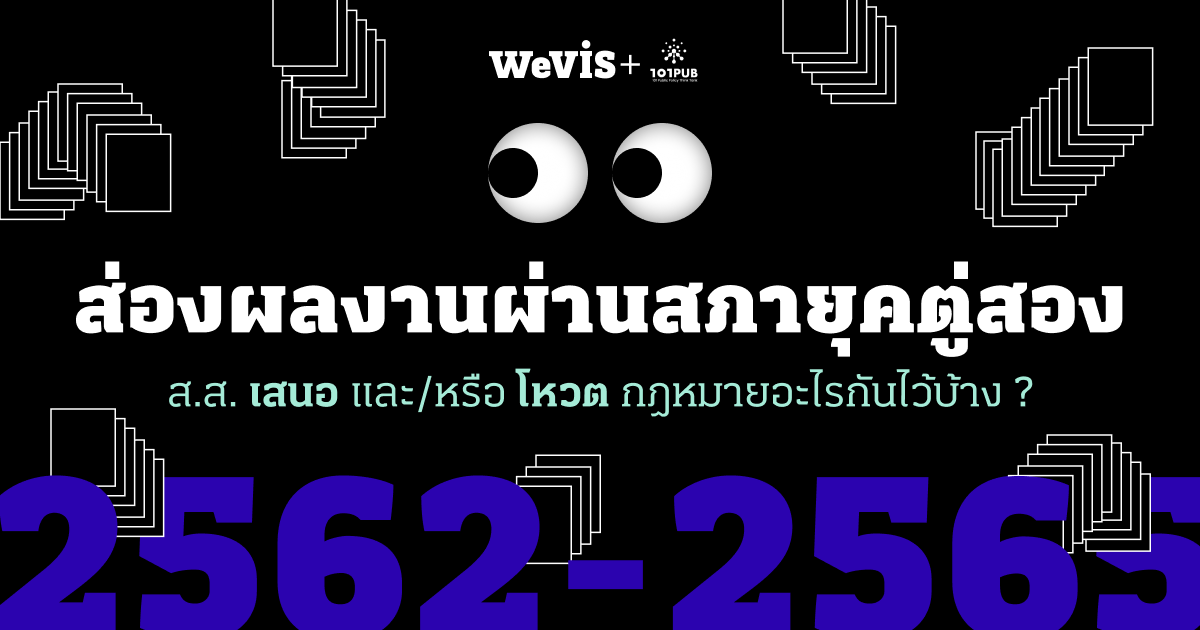
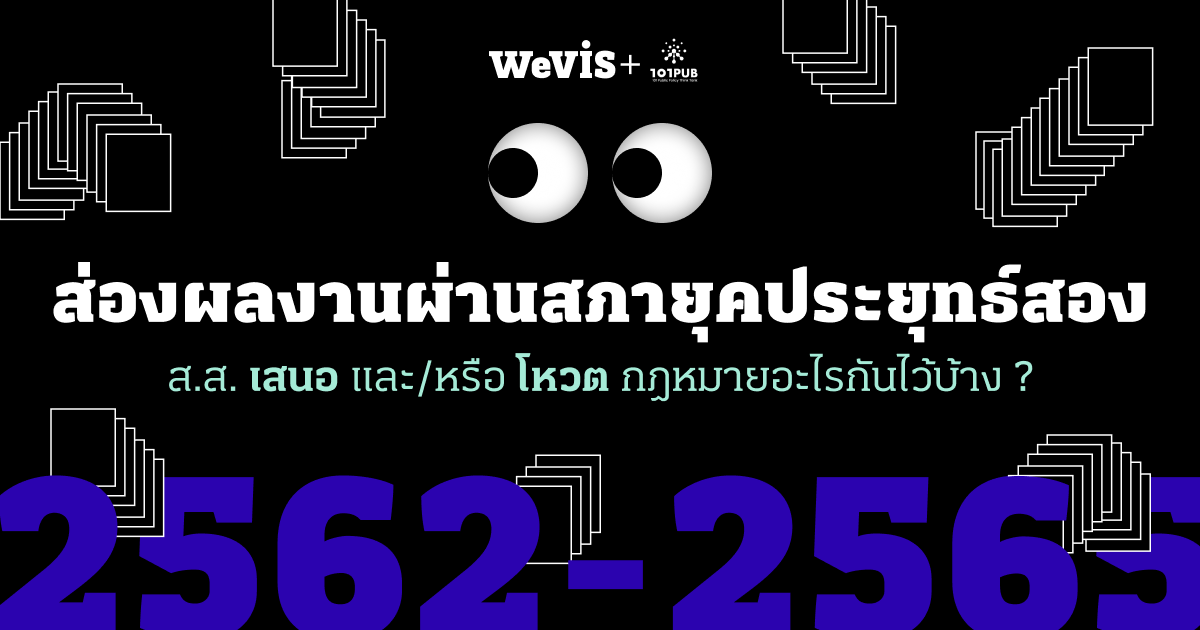
fix: update name

Changed region(s): [[0.0308, 0.3921, 0.9558, 0.6635]]

diff --git a/src/app.html b/src/app.html
@@ -31,13 +31,13 @@ Contact: https://tinyurl.com/joinpunchup
 	<link rel="dns-preload" href="https://design-systems.wevis.info/">
 
 	<!-- HTML Meta Tags -->
-	<title>ส่องกฎหมายผ่านสภายุคตู่สอง — WeVis x 101Pub</title>
+	<title>ส่องกฎหมายผ่านสภายุคประยุทธ์สอง — WeVis x 101Pub</title>
 	<meta name="description" content="ส.ส. เสนอ และ/หรือ โหวต กฎหมายอะไรกันบ้าง">
 
 	<!-- Facebook Meta Tags -->
 	<meta property="og:url" content="https://wevisdemo.github.io%sveltekit.assets%/">
 	<meta property="og:type" content="website">
-	<meta property="og:title" content="ส่องกฎหมายผ่านสภายุคตู่สอง — WeVis x 101Pub">
+	<meta property="og:title" content="ส่องกฎหมายผ่านสภายุคประยุทธ์สอง — WeVis x 101Pub">
 	<meta property="og:description" content="ส.ส. เสนอ และ/หรือ โหวต กฎหมายอะไรกันบ้าง">
 	<meta property="og:image"
 		content="https://wevisdemo.github.io%sveltekit.assets%/og.png">
@@ -46,7 +46,7 @@ Contact: https://tinyurl.com/joinpunchup
 	<meta name="twitter:card" content="summary_large_image">
 	<meta property="twitter:domain" content="wevisdemo.github.io">
 	<meta property="twitter:url" content="https://wevisdemo.github.io%sveltekit.assets%/">
-	<meta name="twitter:title" content="ส่องกฎหมายผ่านสภายุคตู่สอง — WeVis x 101Pub">
+	<meta name="twitter:title" content="ส่องกฎหมายผ่านสภายุคประยุทธ์สอง — WeVis x 101Pub">
 	<meta name="twitter:description" content="ส.ส. เสนอ และ/หรือ โหวต กฎหมายอะไรกันบ้าง">
 	<meta name="twitter:image"
 		content="https://wevisdemo.github.io%sveltekit.assets%/og.png">

diff --git a/src/components/sections/Intro.svelte b/src/components/sections/Intro.svelte
@@ -70,7 +70,7 @@
 			<header>
 				<h1 bind:this={el_h1} class="wv-h2 wv-font-kondolar wv-font-black">
 					<span class="nw">ส่องผลงาน</span><span class="nw">ผ่านสภา</span><span class="nw"
-						>ยุคตู่สอง</span
+						>ยุคประยุทธ์สอง</span
 					>
 				</h1>
 				<p bind:this={el_p} class="wv-h5 wv-font-kondolar c-mint">
